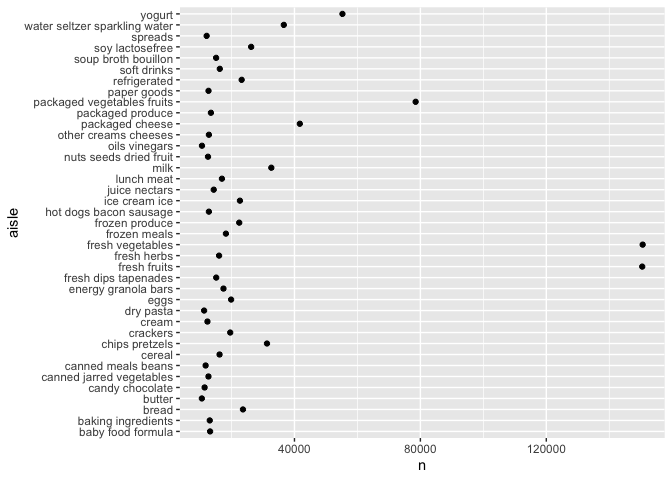
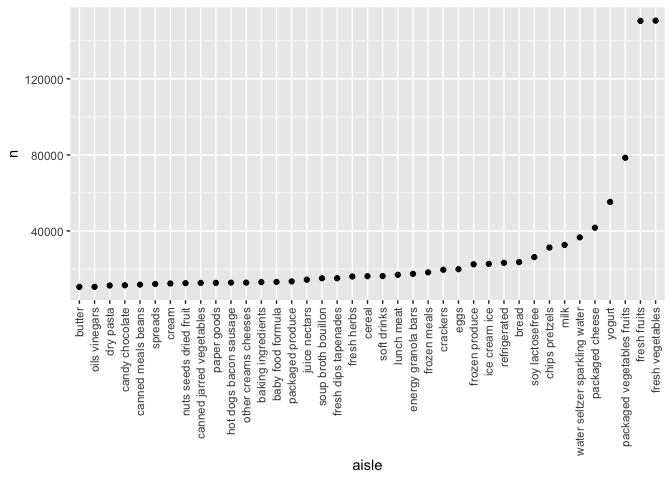
increased readability of plot

diff --git a/p8105_hw3_mt3866.md b/p8105_hw3_mt3866.md
@@ -50,10 +50,12 @@ Filter to aisles with over 10,000 items ordered and then create ggplot:
 
 ``` r
 instacart_df_filtered = instacart_df |>
-filter (n > 10000)
+filter (n > 10000) |>
+mutate (aisle = fct_reorder(aisle, n))
 
-ggplot(instacart_df_filtered, aes(x = n, y = aisle)) +
-  geom_point ()
+ggplot(instacart_df_filtered, aes(x = aisle, y = n)) +
+  geom_point () +
+  theme(axis.text.x = element_text(angle=90, hjust=1, vjust=0.5))
 ```
 
 ![](p8105_hw3_mt3866_files/figure-gfm/unnamed-chunk-3-1.png)<!-- -->
@@ -69,8 +71,8 @@ instacart_popular = instacart |>
   slice_head(n=3)
 ```
 
-Create a table describing hours that Pink Lady Apples and Coffee Ice
-Cream are ordered:
+Create a table describing mean hour of the day that Pink Lady Apples and
+Coffee Ice Cream were ordered:
 
 ``` r
 instacart_hour = instacart |>
@@ -110,3 +112,5 @@ coffee ice cream was ordered was 12.3 and in which pink lady apples were
 ordered was 12.8. The mean hour of Saturday in which coffee ice cream
 was ordered was 13.8 and in which pink lady apples were ordered was
 11.9.
+
+\##Question 2
